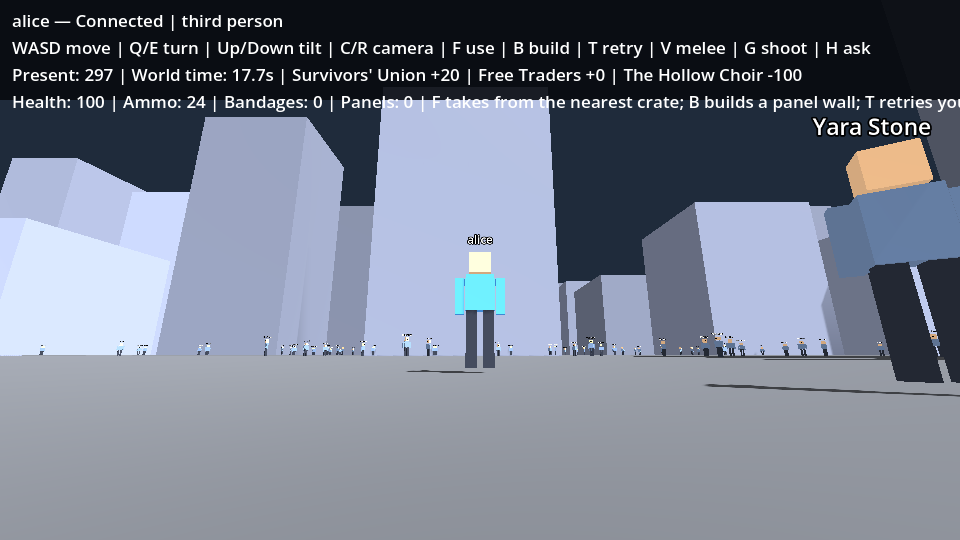
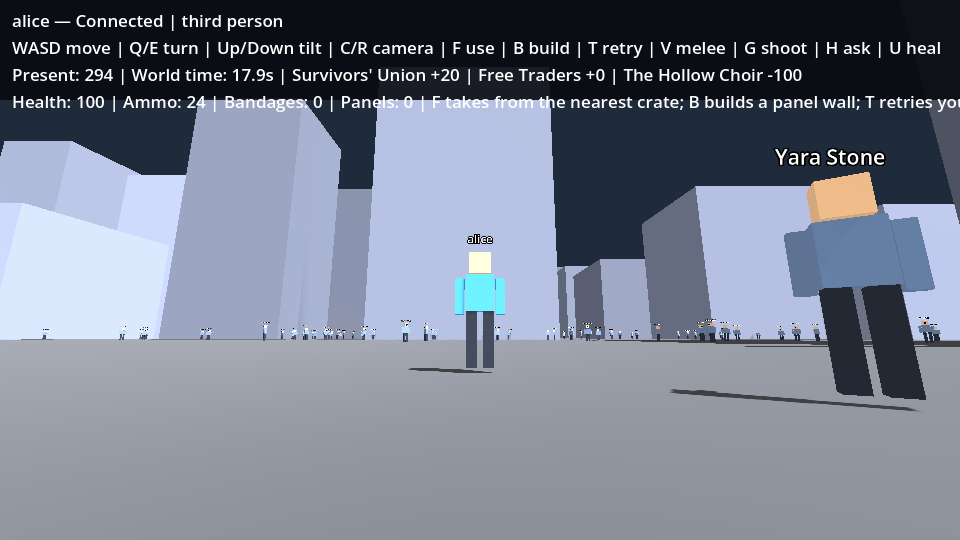
Docs for the nightly run: README, STATE, RUNBOOK, CLAUDE.md, handoff

diff --git a/src/QuestSim.Game/RoomView.cs b/src/QuestSim.Game/RoomView.cs
@@ -100,7 +100,7 @@ public partial class RoomView : Node3D
             float shade = .45f + (CityGen.Mix((uint)(b.X * 73856093 ^ b.Z * 19349663)) % 100) / 400f;
             multi.SetInstanceColor(i, b.Height > 18 ? new Color(shade * .8f, shade * .85f, shade) : new Color(shade, shade * .9f, shade * .75f));
         }
-        node.AddChild(new MultiMeshInstance3D { Multimesh = multi, MaterialOverride = new StandardMaterial3D { VertexColorUseAsAlbedo = true, Roughness = .9f } });
+        node.AddChild(new MultiMeshInstance3D { Multimesh = multi, MaterialOverride = new StandardMaterial3D { VertexColorUseAsAlbedo = true, VertexColorIsSrgb = true, Roughness = .9f } });
         return node;
     }
 

diff --git a/README.md b/README.md
@@ -97,6 +97,7 @@ Each milestone is small, tested end to end, and recorded with evidence.
 | **Q02a** One item | Two players race for one bandage; exactly one wins, and retries never duplicate it | [results](questsim_planning_kit/Q02_RESULTS.md) |
 | **Q02b** One wall | Two players race to build in the last free cell; the cost is paid exactly once | [results](questsim_planning_kit/Q02B_RESULTS.md) |
 | **E1** Population and rumors | 10 million simulated agents on the GPU, bit-identical to the CPU reference | [results](questsim_planning_kit/E1_RESULTS.md) |
+| **Nightly** v1.0 foundation *(branch `nightly`)* | A generated 40 × 40 km city; a million persistent agents with detail near players; zombies, cultists and factions; melee and pistol; defeat instead of death; a game master that turns facts into opportunities; rumors by word of mouth; data-defined items and mods; CI on Linux and Windows | [log](questsim_planning_kit/NIGHTLY_2026-10-26.md) |
 
 A world of one million agents from the E1 experiment. Green is humans (with faint travel streaks
 between settlements), red is migrating zombie hordes, and cyan is people carrying a rumor outward
@@ -104,11 +105,16 @@ from where an event happened:
 
 ![One million simulated agents](experiments/population/evidence/world-1e6.png)
 
+And inside the game, on the `nightly` branch: the plaza outside the starter building, with Survivors' Union
+members in the street and the downtown towers behind them.
+
+![Populated plaza in the generated city](src/QuestSim.Game/evidence/nightly/city-npcs.png)
+
 ---
 
 ## Architecture
 
-> Solid parts exist today. Parts marked *(planned)* are the direction we're testing toward.
+> Everything below runs on the `nightly` branch except parts marked *(planned)*.
 
 ### The big picture
 
@@ -121,7 +127,7 @@ flowchart LR
     subgraph Server["Dedicated server"]
         AUTH["World authority (CPU)<br/>validates every request,<br/>owns facts and ledgers"]
         POP["Population simulation (GPU, Vulkan)<br/>millions of humans and zombies"]
-        STORY["Story director (planned)<br/>opportunities from real facts"]
+        STORY["Virtual Game Master<br/>opportunities from real facts"]
     end
     SAVE[("Save files<br/>atomic, versioned")]
 
@@ -186,14 +192,14 @@ flowchart TD
     FACT --> RUMOR["Rumor slot<br/>credibility fades with age"]
     RUMOR --> PEOPLE["People who meet pass it on<br/>(trust depends on faction)"]
     PEOPLE --> FORGET["People forget;<br/>the rumor eventually retires"]
-    FACT --> STORY["Story director (planned)<br/>offers an opportunity"]
-    STORY --> INVENT["Story-time invention (planned)<br/>the cart, the rum, the wolves"]
+    FACT --> STORY["Virtual Game Master<br/>offers an opportunity"]
+    STORY --> INVENT["Story-time invention<br/>a stash, a bounty, a named victor"]
     INVENT --> FACT
 ```
 
 Rumors change what people *believe*. They never change what *happened*.
 
-### How much each NPC can carry *(planned layout)*
+### How much each NPC can carry
 
 Most of an NPC is never stored at all. It's regenerated from the world seed and the NPC's ID, and it
 comes out the same every time and for every player. Only what actually happens to them is saved.
@@ -220,7 +226,7 @@ flowchart LR
 At 10 million NPCs that's roughly 0.5 GB of GPU memory and a few GB of RAM, with rich detail only for
 the people that players and events have actually touched.
 
-### Detail near players, coarse far away *(planned, experiment E2)*
+### Detail near players, coarse far away
 
 ```mermaid
 flowchart LR
@@ -228,7 +234,27 @@ flowchart LR
     NEAR -- "player leaves" --> FAR
 ```
 
-The same individual moves between tiers without being lost, duplicated or reset.
+The same individual moves between tiers without being lost, duplicated or reset. Agents within 120 m of a
+player are simulated at 20 Hz (zombies and hostile factions hunt, others go about their business) and
+return to the coarse 1 Hz population tick when players move more than 180 m away.
+
+### Defeat instead of death
+
+```mermaid
+flowchart TD
+    D["Player downed"] --> W{"Who won?"}
+    W -- "zombies" --> I["Infected + injured,<br/>wake in the starter room"]
+    I --> CURE["Game master invents an antiviral stash<br/>(cure opportunity)"]
+    I -- "untreated" --> T["Turned: gear left in remains,<br/>new character"]
+    W -- "Hollow Choir or a hostile faction" --> C["Captured where they fell"]
+    C --> V["Victor takes the actual items,<br/>gains a title and becomes a named NPC"]
+    C --> R["Rescue opportunity<br/>(a teammate frees you)"]
+    V --> B["Revenge bounty<br/>(kill the victor, recover the gear)"]
+    W -- "permadeath server" --> P["Dead: gear stays where they fell"]
+```
+
+Clocks for infection, captivity and injury only run while that player is online. Every item that changes
+hands is recorded in a ledger, so nothing is ever duplicated or lost along the way.
 
 ### Roadmap
 
@@ -277,9 +303,13 @@ bash scripts/run_client.sh bob
 | Up / Down | Tilt the camera |
 | C | Switch between first and third person |
 | R | Reset the camera |
-| F | Take an item from the nearest stocked crate |
+| F | Use: free a captive teammate, loot a cache, or take from the nearest crate |
 | B | Build a wall panel on the orange cell |
-| T | Retry your last saved action |
+| T | Retry your last saved pickup or build |
+| V | Melee attack |
+| G | Fire the pistol |
+| H | Ask the nearest person what they've heard |
+| U | Use your best healing item |
 
 Close a client to leave, and relaunch the same profile name to return as the same character. World
 time pauses when nobody is connected. Play data is kept in `.artifacts/play/`.
@@ -297,6 +327,11 @@ python3 scripts/verify_build.py                # wall-building race, retries, cr
 python3 scripts/verify_build_screen.py         # real key presses + screenshots on a virtual display
 python3 scripts/verify_items.py                # item pickup race and recovery
 python3 scripts/verify_multiplayer.py          # two-client networking regressions
+python3 scripts/verify_living.py               # population tiers, combat, asking NPCs, snapshots, 1M-agent budget
+python3 scripts/verify_defeat.py               # capture, rescue, infection turning a player
+python3 scripts/verify_content.py              # data-defined items, example mod, missing-mod refusal
+python3 scripts/verify_city_screen.py          # populated city rendered on a virtual display
+python3 scripts/inspect_world.py WORLD.json    # read-only summary of any save
 
 bash scripts/run_population.sh check           # population experiment: CPU vs GPU bit-identical
 bash scripts/run_population.sh bench --agents 1e5,1e6,1e7
@@ -313,6 +348,7 @@ The [runbook](questsim_planning_kit/RUNBOOK.md) lists every command, with expect
 | --- | --- |
 | `src/QuestSim.Domain/` | Game rules as plain C# with no engine dependency: authority, saves, validation |
 | `src/QuestSim.Game/` | The Godot project, used as both the server and the client |
+| `content/`, `mods/` | Data-defined items (core) and an example data-only mod |
 | `checks/` | Offline checks of the game rules |
 | `experiments/population/` | The E1 population and rumor experiment (Vulkan + C# reference) |
 | `experiments/presentation/` | The original 2D / sprite / low-poly comparison |
@@ -327,7 +363,9 @@ The [runbook](questsim_planning_kit/RUNBOOK.md) lists every command, with expect
   such as CrossOver, which hasn't been tested.
 - **Verified so far:** local Linux, loopback networking and two clients. Exported builds, LAN/WAN and
   2-8 player loads haven't been tested yet.
-- **Simulation:** about 10 million agents at one population tick per second on an RTX 3080 Ti. Going
+- **Game world (nightly):** one million agents by default (`--population=N`), which the server's CPU
+  path handles at 20 ticks per second; population snapshots save in the background every 60 seconds.
+- **Simulation experiment:** about 10 million agents at one population tick per second on an RTX 3080 Ti. Going
   beyond that needs better memory locality (the next experiment, E1b).
 - **Content:** one room, one crate of bandages, one crate of wall panels and one build cell. The
   living-world systems are being built and measured separately before they join the game.

diff --git a/questsim_planning_kit/STATE.md b/questsim_planning_kit/STATE.md
@@ -1,42 +1,39 @@
 # QuestSim implementation state
 
-2026-10-25 (session 2): Q02b one modular wall placement complete; stop at this
-bounded task. Q02a pickup and Q01 low-poly 3D/first-third-person baseline retained.
+2026-10-26 (nightly run): branch `nightly` carries the v1.0 foundation work (BACKLOG F1–F14);
+`main` is unchanged at 956edc6. Full log, results and the director's open decisions:
+NIGHTLY_2026-10-26.md. Everything is experimental (DIRECTOR.md).
 
-Origin git@github.com:adrik0622/QuestSim.git; main tracks origin/main. Director
-authorized periodic verified pushes. Q02b checkpoints: acc2140 domain, 92888e8
-runtime (pushed, ls-remote verified); final HEAD adds screen test/evidence/docs.
-All work local to QuestSim; no play saves touched.
+Implemented on `nightly` (each step checked, committed and pushed):
+- F3 world: seeded 40 × 40 km city (22k buildings, 8 towns, roads), chunk streaming in the
+  client, building collision on the server; the starter room is an enclosed building.
+- F2/F5 population in the server: 1,000,000 agents by default, coarse 1 Hz tick on a
+  background task, 20 Hz detail within 120 m of players, per-player snapshots.
+- F7 living actors and combat: zombies and hostile factions hunt; rudimentary stats; V melee,
+  G hitscan pistol (walls block, ammo counted).
+- F10 defeat instead of death + deterministic Virtual Game Master: infection (story-time cure
+  stash), turning, capture by named victors who take the actual gear, rescue and revenge
+  opportunities (single claim), permadeath setting, online-only clocks, ledgered transfers.
+- F8/F9 facts become rumors by word of mouth; H asks an NPC what it has heard; faction
+  standing turns factions hostile.
+- F4 population snapshots saved in the background and committed by hash.
+- F11 data-defined items and data-only mods (manifest, namespaces, dependencies; worlds refuse
+  to start without a recorded mod); U uses consumables.
+- F12 acceptance chain in domain checks; F13 `scripts/inspect_world.py`; F14 CI on Linux and
+  Windows (domain + population CPU checks).
 
-Implemented: second crate `questsim:panel-crate` (two `questsim:wall-panel`) at
-(-3, 1.5); one build cell `questsim:build-cell-1` at (-4, 1.5) with a floor marker.
-F takes from the nearest stocked crate in reach; B places a 1m panel wall; T retries
-the last saved attempt (pickup or build). Server validates actor, site, 2m reach,
-free cell, held panel and no active body in the cell; block, spent panel and
-actor-scoped receipt are saved together before reply. Last-cell loser gets
-`occupied` and keeps its panel. Clients draw walls added after the first snapshot.
-Save/protocol v3, content `questsim:q02b-room-v1`; v2 saves get a byte-exact
-`.v2-<guid>.bak`, v1 still migrates (one `.v1-` backup). Old profiles readable.
+Save/protocol v4, content `questsim:city-v1`; v1–v3 saves migrate with byte-exact backups.
 
-Verified this session: zero build warnings/errors; 54 domain checks (16 new);
-verify_build.py 11 ENet checks (race, replay, conflict, reconnect, restart, lost
-reply, failed save, real v2 migration); verify_build_screen.py 4 checks with real
-F/B/T/C key events via Input.ParseInputEvent in graphical clients on Xvfb; PNGs
-inspected. Regressions: verify_items 12, verify_multiplayer 12, save faults 4.
-verify_terminal_shutdown's 3 behavior checks pass on Xvfb; its log assertion fails
-only on the llvmpipe V-Sync warning (Xvfb-only). verify_item_desktop.py and
-verify_shared_desktop.py drive the real desktop and were not run; item_desktop's
-second-F expectation was updated (now a panel) but is unverified.
+Verified: 110 domain checks; verify_build 11, verify_items 12, verify_multiplayer 12,
+verify_save_failures 4, verify_defeat 3, verify_living 6 (1M agents hold 20 ticks/s with
+background snapshots), verify_content 2, Xvfb screens (verify_build_screen 5, city screen);
+E1 population checks 12; GitHub Actions green on ubuntu and windows.
 
-Limits unchanged: Linux development/loopback only, no exports/WAN/2–8 load,
-power-loss/directory-fsync guarantee, authentication, camera collision, mouse-look.
-One fixed cell and wall; no demolition, doors, refill, navigation or generic
-construction/inventory. Receipts unpruned. Screen tests use software GL.
+Not done / limits: F1 locality (deferred: 10⁶ fits the CPU), F6 binary snapshots (JSON with
+interest management only), Godot exports and Windows *game* runs (only domain checks run on
+Windows), LAN/WAN and 2–8 player load, camera collision, item instances/rarity, code mods,
+building colours render washed-out (cosmetic). verify_item_desktop/verify_shared_desktop/
+verify_terminal_shutdown (real desktop) not rerun.
 
-Results: Q02B_RESULTS.md. Handoff: ../HANDOFF_2026-10-25.md.
-2026-10-26: E1 population/rumor experiment complete (E1_RESULTS.md). Vulkan via
-Silk.NET (Godot headless has no RenderingDevice). 12 checks pass incl. CPU vs GPU
-bit-identical every tick. ~10⁷ agents at 1 tick/s on RTX 3080 Ti with zero authority
-wait; 10⁸ is 15–30 s/tick because neighbour reads lack locality.
-Next action: v1.0 foundation plan F1–F14 in BACKLOG.md (2026-10-26). Proposed next
-CURRENT_TASK: F1/E1b population locality, awaiting director go-ahead.
+Next action: director reviews NIGHTLY_2026-10-26.md decisions, plays the nightly build, and
+decides whether to merge `nightly` into `main`.

diff --git a/CLAUDE.md b/CLAUDE.md
@@ -44,6 +44,7 @@ python3 scripts/verify_build.py              # Q02b wall race/replay/recovery/mi
 python3 scripts/verify_build_screen.py       # graphical clients on a private Xvfb (self re-execs under xvfb-run)
 python3 scripts/verify_items.py              # Q02a item ENet/recovery/migration
 python3 scripts/verify_multiplayer.py        # Q01 network regressions
+python3 scripts/verify_living.py / verify_defeat.py / verify_content.py   # nightly living world, defeat, mods
 python3 scripts/verify_save_failures.py      # persistence fault cases
 ```
 
@@ -75,6 +76,11 @@ and disable compiler servers; keep those flags when invoking `dotnet` directly.
   first snapshot are drawn incrementally). Server never creates view nodes. Client profiles persist the last
   pickup/build request before sending so T can replay it. Test-only hooks: `--intent-file` (movement, pickup/build
   requests, `keys`, `capture`), `--status=PATH`, `--shutdown-file=PATH`.
+- Nightly v1.0 domain files: `CityGen.cs` (seeded integer world, chunks), `Population.cs` (coarse agents, rumor
+  spread), `Living.cs` (tiers, NPC behaviour, combat), `Defeat.cs` (defeat outcomes, item ledger, Virtual Game Master),
+  `Rumors.cs` (facts → rumors, asking, faction standing), `PopulationStore.cs` (snapshots), `Content.cs` (data items, mods).
+  The authority touches population arrays only between coarse ticks (background task). All item movements between
+  holders go through `Transfer` (ledgered); never edit inventories of named NPCs or caches directly.
 - `experiments/presentation/` — the preserved, disposable Q00 2D/sprite3D/poly3D comparison (`run_presentation.sh`); not the game.
 - `src/QuestSim.Game/evidence/`, `experiments/presentation/evidence/` — small versioned results/screenshots; raw evidence stays in `.artifacts/`.
 
@@ -86,7 +92,7 @@ Core invariants (see ENGINE_RULES.md "World invariants"):
   hand-edit stock or prune receipts. A new item, cost or crate needs matching validation rules.
 - Fixed content positions matter to tests: Q01 movement suites walk Alice +X along z=0 and Bob ±Z along x=−4.
 - World time pauses with zero joined characters. Disconnected characters vanish but keep identity/inventory.
-- Versioning: save schema 3, wire `ProtocolVersion` 3, content ID `questsim:q02b-room-v1`. Unknown/incomplete
+- Versioning: save schema 4, wire `ProtocolVersion` 4, content ID `questsim:city-v1`. Unknown/incomplete
   saves fail closed. Changing IDs, saves or messages requires stating compatibility and backing up saves before
-  migration (v1/v2 saves get a byte-exact `.v1-`/`.v2-<guid>.bak`; `WorldStorage.Load` chains v1→v2→v3). Protocol changes require rebuilding server and all clients.
+  migration (v1–v3 saves get a byte-exact `.v<n>-<guid>.bak`; `WorldStorage.Load` chains v1→v2→v3→v4). Protocol changes require rebuilding server and all clients.
 - Targets: Windows and Linux (macOS stretch goal); Vulkan for GPU compute. Verified so far: local Linux, loopback, two clients. Exports, LAN/WAN, 2–8 load and power-loss durability are unverified.

diff --git a/questsim_planning_kit/RUNBOOK.md b/questsim_planning_kit/RUNBOOK.md
@@ -225,6 +225,27 @@ All use fresh disposable fixtures; actual play saves are not edited by tests.
 The lost-reply test sends SIGSTOP/CONT/KILL only to its tracked test children.
 It never suspends user processes. Q02_RESULTS.md contains evidence and limitations.
 
+## Nightly v1.0 foundation (branch `nightly`)
+
+Same build and launch commands. New server options: `--population=N` (new worlds; default
+1,000,000; tests use 0 or 100k), `--population-save-seconds=S` (default 60), `--content=DIR`
+(default `content/core`), `--mods=DIR` (default `mods/`). New keys: F use, V melee, G shoot,
+H ask, U heal. Play data stays in `.artifacts/play/`; population snapshots sit beside the
+world as `world.json.population-<tick>.bin`.
+
+```bash
+bash scripts/check.sh                          # 110 domain checks
+python3 scripts/verify_living.py               # tiers, combat, asking, snapshots, 1M budget (cap memory)
+python3 scripts/verify_defeat.py               # capture, rescue, infection turning
+python3 scripts/verify_content.py              # mods and consumables
+python3 scripts/verify_city_screen.py          # Xvfb capture of the populated plaza
+python3 scripts/inspect_world.py .artifacts/play/world.json   # read-only save summary
+```
+
+Older suites (build, items, multiplayer, save failures, build screen) run their servers with
+`--population=0` so exact actor counts keep their meaning. Your existing v3 play save migrates
+to v4 on first start (byte-exact `.v3-<guid>.bak`); it gets no population unless recreated.
+
 ## E1 — population and rumor experiment
 
 Headless, disposable, outside the game. Needs a Vulkan driver and `glslc` (Vulkan SDK /

diff --git a/HANDOFF_2026-10-25.md b/HANDOFF_2026-10-25.md
@@ -9,6 +9,8 @@ Read `AGENTS.md`, then `questsim_planning_kit/{AGENTS,CURRENT_TASK,STATE,RUNBOOK
 Consult only relevant sections of `ENGINE_RULES.md` / `BACKLOG.md`; do not reload
 all research or sibling project histories. `DIRECTOR.md` records confirmed scope.
 
+**Nightly 2026-10-26:** branch `nightly` holds the v1.0 foundation run; read `questsim_planning_kit/NIGHTLY_2026-10-26.md` first (progress log + director decisions).
+
 **Latest:** E1 population/rumor experiment complete (session 3 log below; E1_RESULTS.md). Next proposed: E1b spatial sort, awaiting director.
 
 **Current milestone:** Q02b, one modular wall placement, **complete** (session 2,
